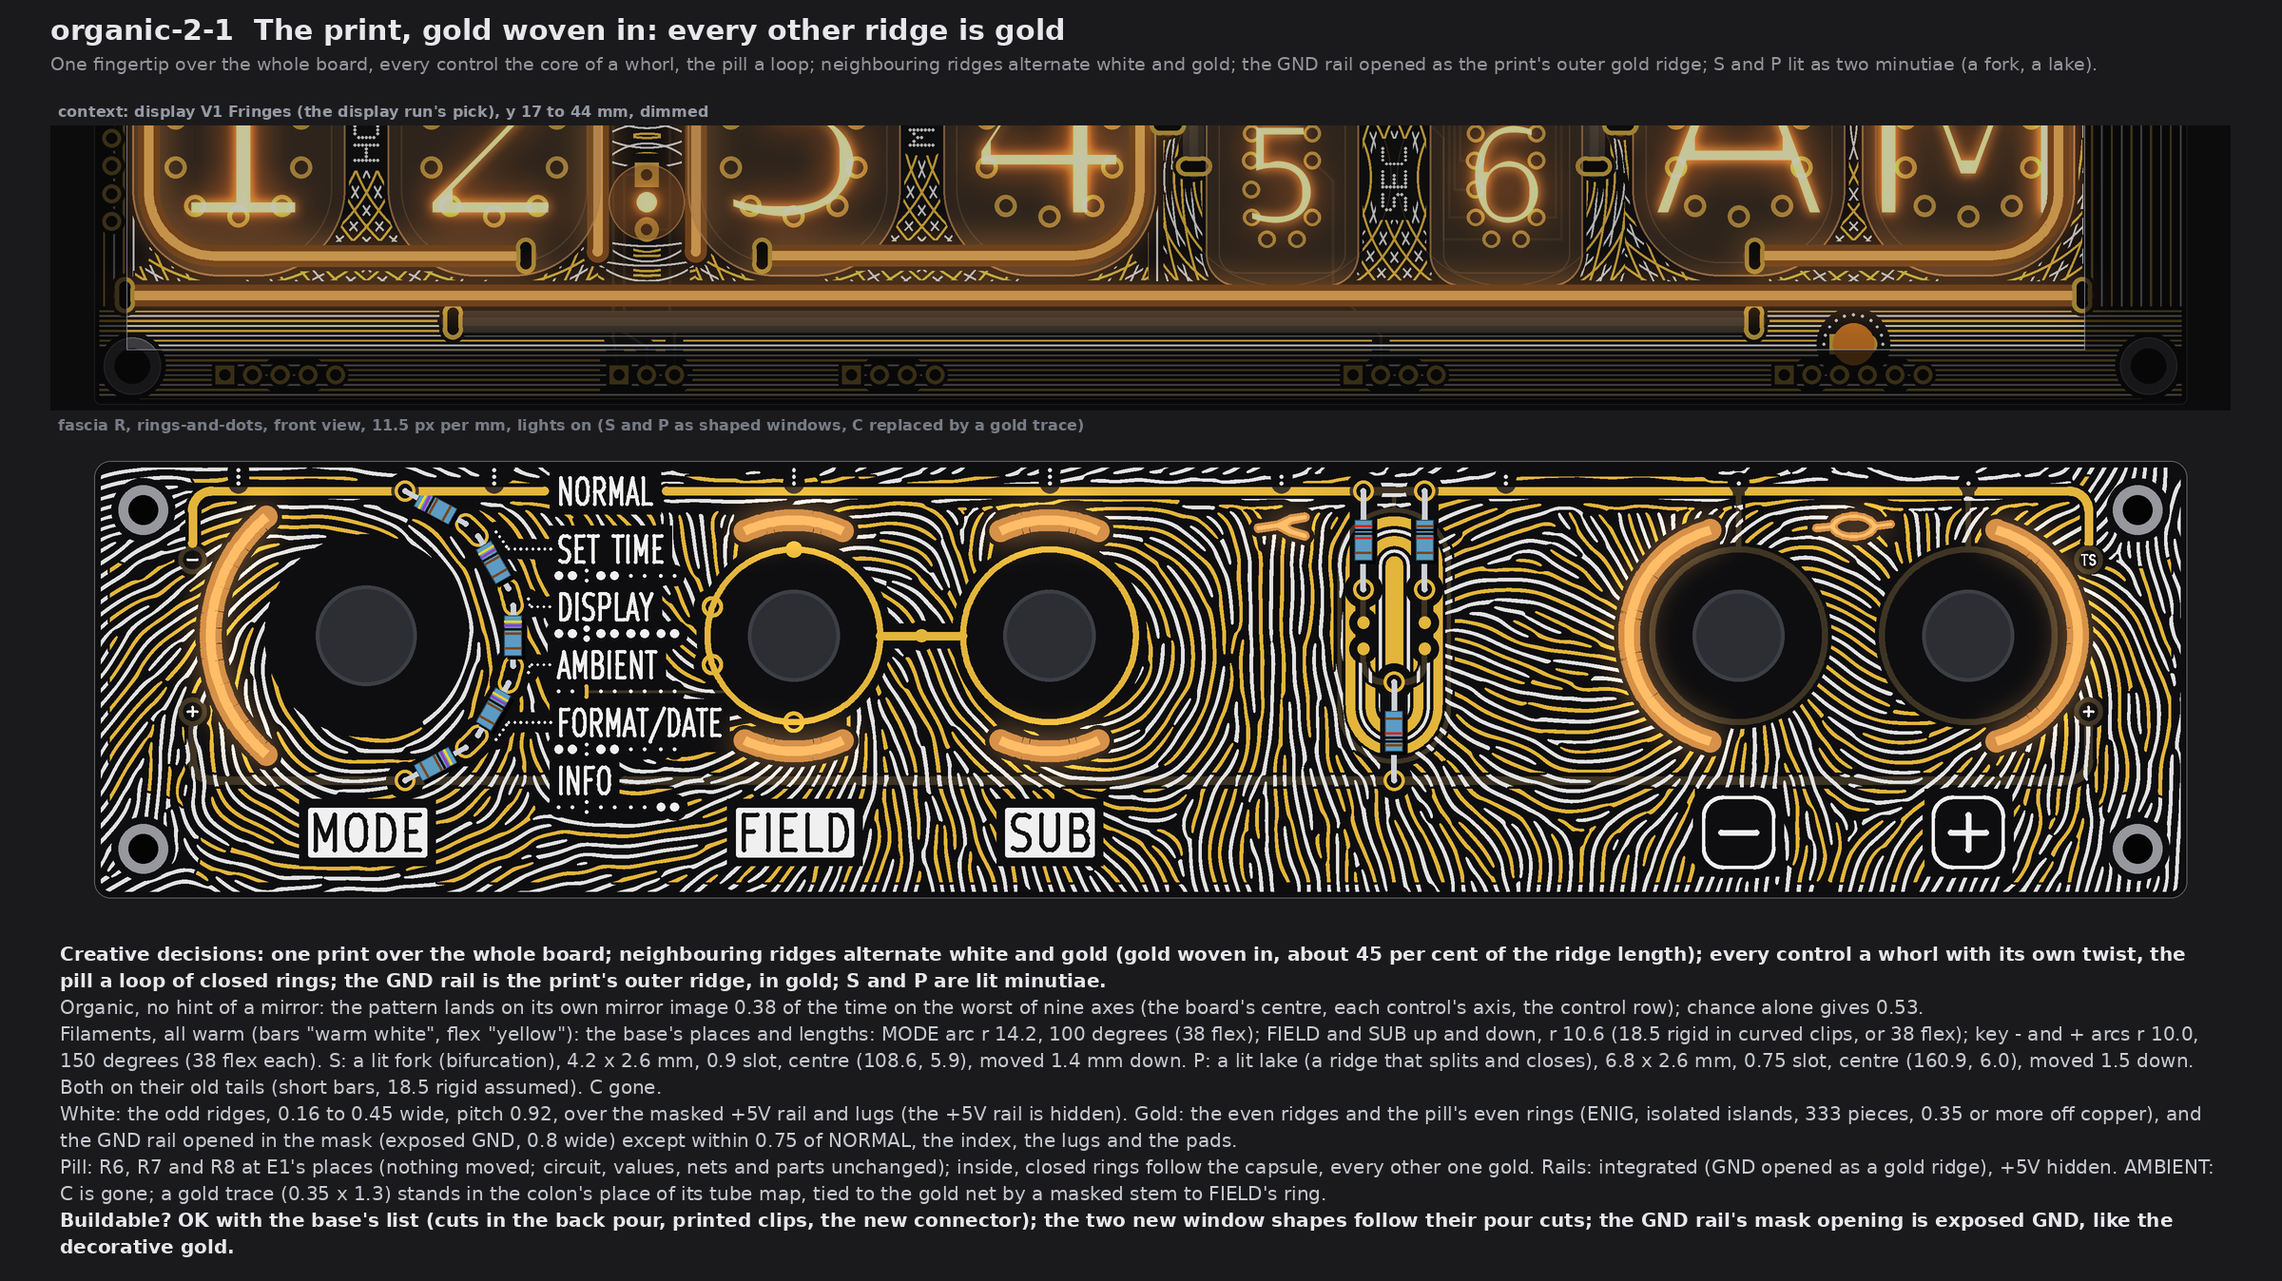
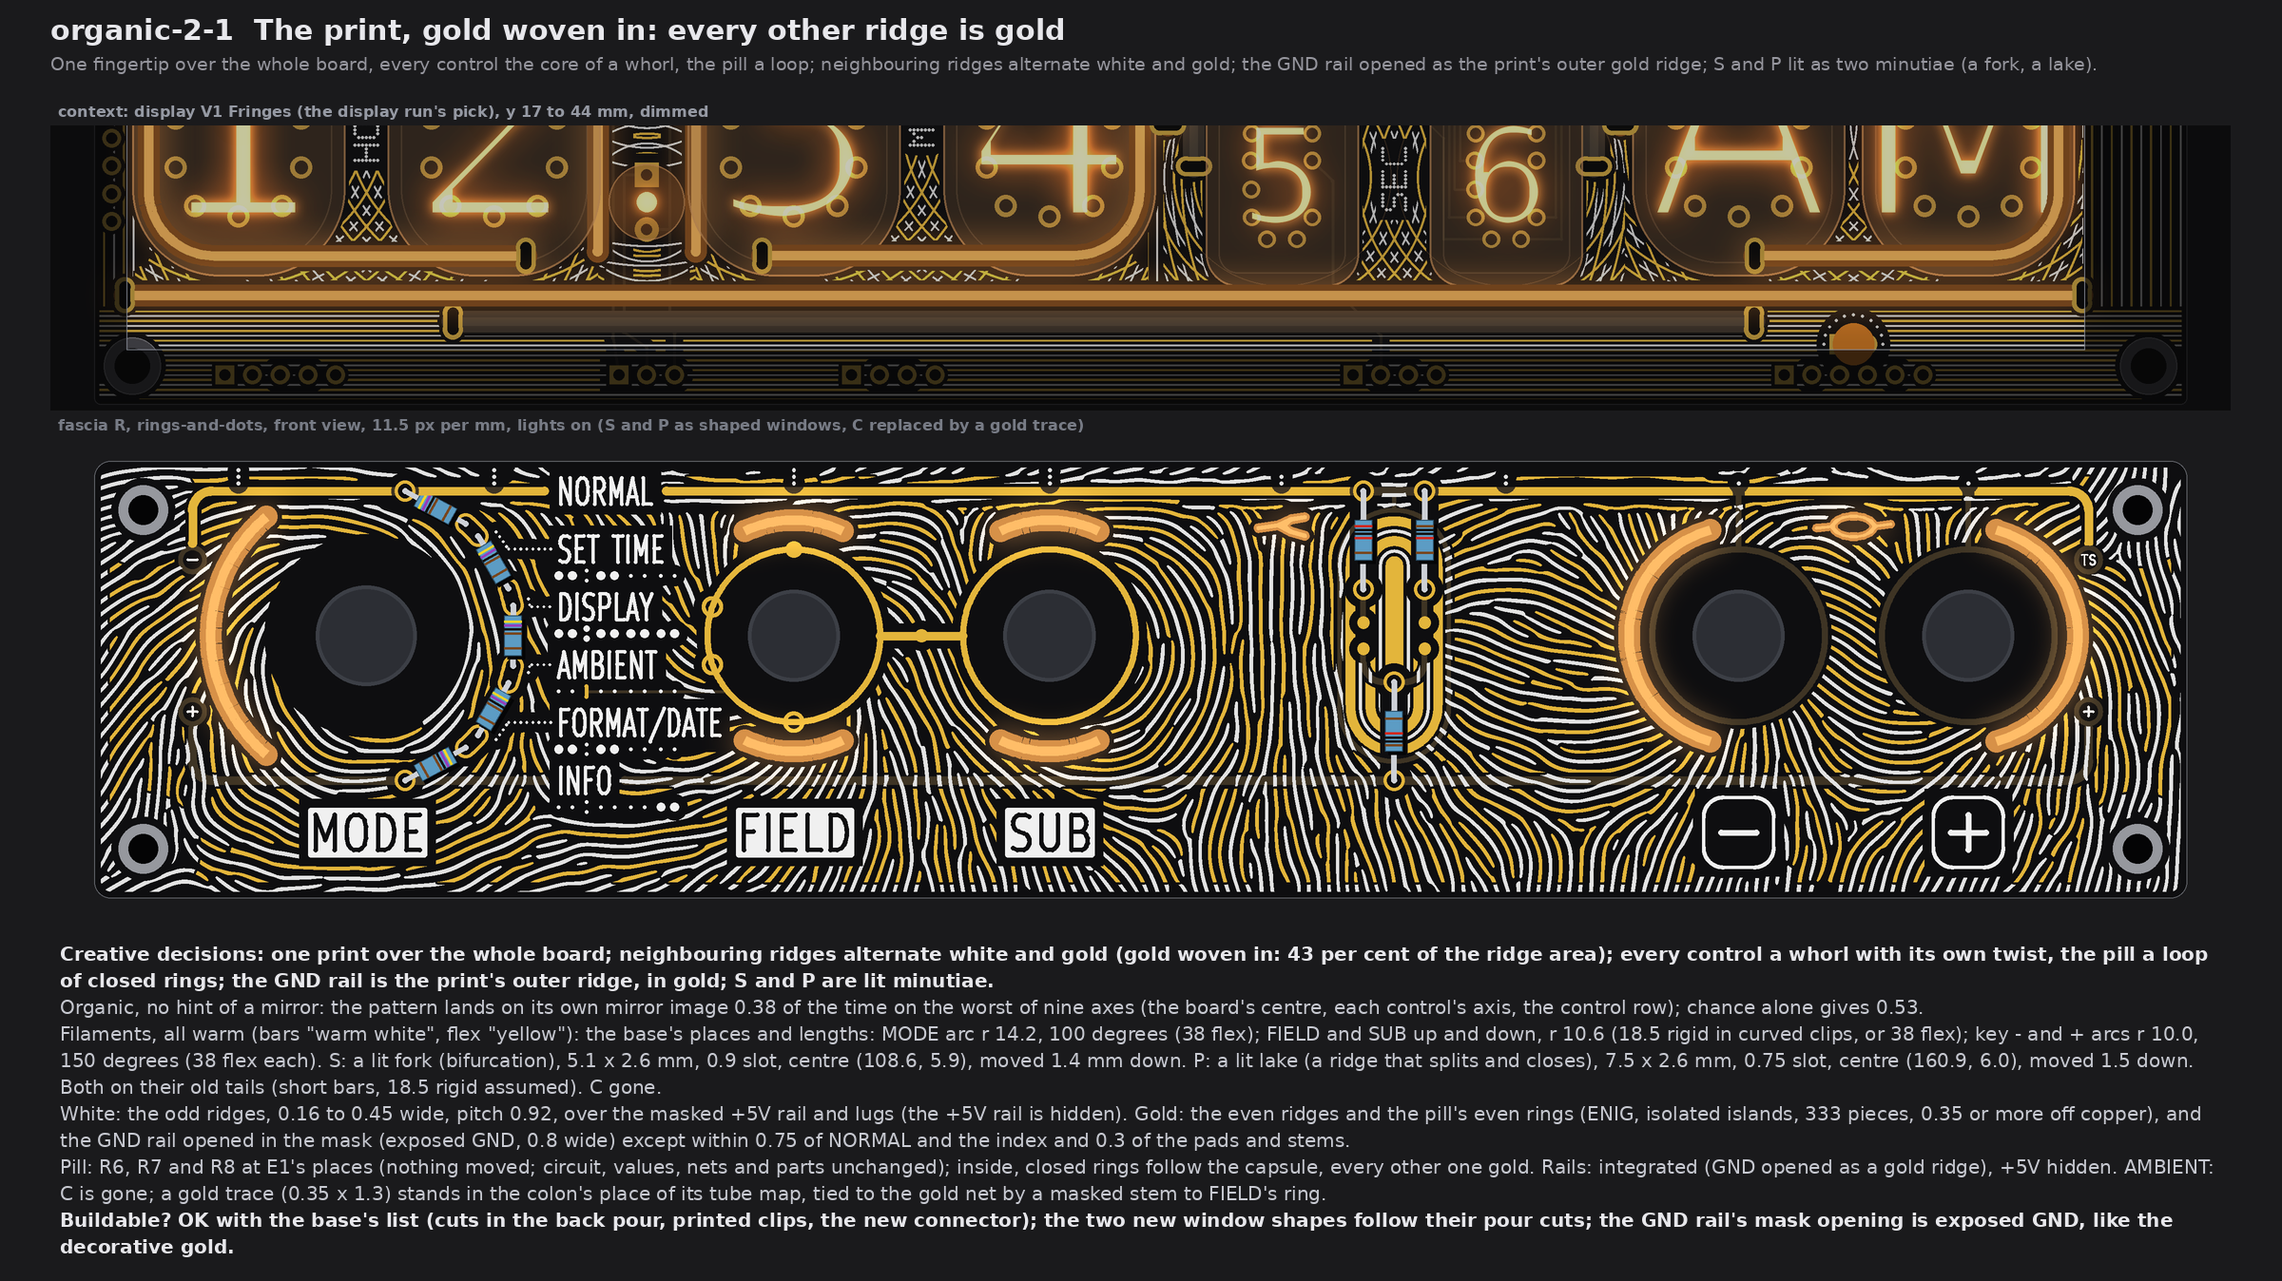
PCB/art: TS06 fascia organic set 2 write-up, sheet, detail, back view; faces after the full-size look (drawings only)
Claude-Session: https://claude.ai/code/session_01WoV3gyAFgmtuk6W6Dr4bdA

Changed region(s): [[0.0312, 0.7478, 0.4688, 0.7789], [0.5625, 0.7166, 0.9688, 0.7478], [0.4062, 0.8724, 0.5938, 0.9036]]

diff --git a/PCB/art/TS06-FASCIA-organic-2.md b/PCB/art/TS06-FASCIA-organic-2.md
@@ -1,0 +1,176 @@
+# TS06 fascia, organic set 2: the print with gold woven in, mushroom, rootwork that carries the function lines (drawings and checks only)
+
+2026-10-14, front round 3, run fascia-organic-2. The owner's words for this set (19:5x UTC): "add the organic set back to the queue
+with these changes: more gold integration in fingerprint, lines can alternate for example , / replace heartwood for mushroom
+variant , make rootwork actually convey info". The first set (`TS06-FASCIA-organic.md`) stays as history. All three faces take the
+queue's changes A1 to A5: the top dots S and P are gone and their lights feed shaped windows; each face says what it does with the
+pill and the rails; display V1 Fringes stands above each face for context; window C by AMBIENT is gone and a gold trace takes its
+place.
+
+No board, schematic, fab, tool, 3D, firmware or spec file was touched. Each face is fascia R as front-merge left it (rings-and-dots:
+FIELD's and SUB's gold rings and link, the four marks on FIELD's ring, the dial's and the ladder's pads, the names, plates, leaders,
+tube maps and index; `PCB/art/TS06-FRONT-merge.md` section 6), at one scale (11.5 px per mm), lights on. Marks: *measured* is on the
+drawn rasters (23 px per mm) or the art model; *inferred* is arithmetic; *assumed* is my reading. The scripts are scratch copies of
+the first organic run's and the kawaii run's, not in the repo.
+
+![contact sheet](TS06-FASCIA-organic-2/contact-sheet.png)
+
+**All three are fully organic and wild** (no hint of a mirror: each lands on its own mirror image less often than chance on the
+worst of nine axes, section 6). They differ by motif (a print, fungi, roots in soil), by lead ink (gold and white in equal turns;
+white-led with gold gills; white soil with gold function roots), by what the lights draw (two lit minutiae; two glowing green
+mushrooms; a seed and a sprout, with the lights coloured to match the roots), and by what they do with the pill and the rails.
+
+## 1. What every face keeps, and the queue's changes
+
+* **Fixed:** outline, holes, controls and their places, J1, the names, plates, key legends, dot leaders, tube maps, the index, FIELD's
+  and SUB's gold rings, the link, the four SUB marks on FIELD's ring, the GND via. Pattern stays 0.78 or more from every legend and
+  0.74 or more from E1's exposed gold (section 6), so each stands on its own calm ground.
+* **A1, S and P:** the two 2.0 mm dots at (108.6, 4.5) and (160.9, 4.5) are gone; their lights and tails stay and light shaped
+  windows (section 5). The tails are *assumed* short bars (18.5 rigid), as the kawaii and science runs took them.
+* **A5, AMBIENT:** window C (45.04, 21.2) and its tail are gone on every face. In its place, in AMBIENT's tube map where the colon's
+  two dots were, a **gold trace** 0.35 wide and 1.3 long (45.04, 20.62 to 21.58), ENIG, 0.46 below AMBIENT's name and 0.97 from the
+  map's dots (*measured* on the model). It stands for the colon, which is what AMBIENT changes (pass 4's tube map). It sits **on the
+  gold net** through a masked copper stem, 0.25 wide, along the map row (y 21.1) to FIELD's ring at (57.96, 21.1), 12.9 mm, under the
+  map's white dots. *Assumed:* that "on the gold net" meant tied, not an isolated island; the stem can be dropped if not.
+* **A4:** display V1 Fringes (`PCB/art/TS06-DISP-final/v1-fringes.png`), y 17 to 44 mm, dimmed, above each face.
+* **Channels on the new fascia connector** (J1 is full; front-merge items 10 and 11), grouping *assumed* as the first organic run's:
+  1 MODE, 2 FIELD up + down, 3 SUB up + down, 4 the two keys, 5 S + P, 6 spare. No face adds a filament or a channel. With C gone
+  the fascia carries 9 filaments; at 20 mA each the 5 V worst case drops 20 mA below front-merge's 624 mA, to 604 mA (*inferred*).
+* **Fab note (once):** bare-FR4 windows still need the fab's yes (pass 1's coupon). Not decided here.
+
+## 2. organic-2-1 The print, gold woven in
+
+![organic-2-1](TS06-FASCIA-organic-2/organic-2-1-the-print.png)
+
+* **Creative decisions:** one fingertip over the whole board; **neighbouring ridges alternate white and gold** (the ridges are
+  labelled and two-coloured so that each ridge's neighbours across a valley take the other ink; 78 per cent of the ridge contact
+  alternates, the rest is where ridges fork, as in a real print); every control the core of a whorl with its own twist; the pill a
+  loop of closed rings; the GND rail is the print's outer ridge, in gold, and the ridges near it run along it; S and P are lit minutiae.
+* **Organic.** Mirror overlap 0.38 on the worst axis, chance 0.53 (*measured*).
+* **Filaments:** all warm (bars "warm white", flex "yellow"), the base's places and lengths: MODE arc (38 flex), FIELD and SUB up
+  and down (18.5 rigid in curved clips, or 38 flex), key arcs (38 flex each). **S: a lit fork** (a ridge that splits), slot 0.9,
+  5.1 x 2.6 mm (x 106.05 to 111.15, y 4.70 to 7.30), centre (108.6, 5.9), 1.4 mm lower than the old dot. **P: a lit lake** (a ridge that splits and closes round an island
+  of mask), slot 0.75, 7.5 x 2.6 mm (x 157.13 to 164.67, y 4.69 to 7.31), centre (160.9, 6.0), 1.5 mm lower. Both on their old tails.
+* **White:** the odd ridges, 0.17 to about 0.45 wide, pitch 0.92, 579 pieces; over the masked +5V rail and lugs.
+* **Gold:** the even ridges and the pill's even rings, ENIG, 333 isolated islands, 43 per cent of the ridge area; plus the opened
+  GND rail.
+* **Pill:** R6, R7 and R8 at E1's places; **nothing moved**, circuit, values, nets and parts unchanged. Inside, closed rings follow
+  the capsule (the print's loop core), every other one gold, clear of the pads, the landing dots and the bodies.
+* **Rails: integrated.** The GND rail (0.8 wide) is opened in the mask along its length as the print's outer gold ridge (exposed
+  GND, like decorative gold on GND), broken within 0.75 of NORMAL and the index and within 0.3 of the pads and the stems that hang from it; the +5V rail stays masked
+  and hidden under the white ridges (no bare 5 V on the face, as pass 4 chose).
+* **Buildable? OK** with the base's list (cuts in the back pour, printed clips, the new connector); the two new window shapes want
+  their own pour cuts; the GND rail's mask opening is one more mask edit.
+
+## 3. organic-2-2 Mushroom (replaces Heartwood)
+
+![organic-2-2](TS06-FASCIA-organic-2/organic-2-2-mushroom.png)
+
+* **Creative decisions:** every control is a mushroom **cap seen from below**: gills radiate from the knob to a wavy rim, the
+  levers' gold rings are the caps' rings; full gills gold, half and quarter gills white and shorter, as real gills sit (the radial
+  print a cap leaves is its **spore print**); white **mycelium** threads grow from the caps' rims and the little mushrooms' feet over
+  the rest of the board and fuse where they meet (389 fusions); 14 little gold-capped **mushrooms** stand along the bottom edge
+  between the plates; the pill is a mushroom in section; S and P are glowing mushrooms.
+* **Organic.** Mirror overlap 0.33, chance 0.38 (*measured*).
+* **Filaments:** the base's places and lengths, warm, except **S and P, green** (flex or bars "green", on the sold list; a glowing
+  mushroom). S: one mushroom silhouette 3.7 x 3.6 mm, x 106.75 to 110.43, y 4.35 to 7.97 (cap 3.7 wide on a stem), centred 1.7 mm
+  lower than the old dot. P: two mushrooms, caps 3.1 and 2.0 wide, x 158.37 to 163.57, y 4.90 to 8.17. Both on their old tails.
+* **White:** the half and quarter gills (0.16 to 0.18), each cap's rim, the mycelium (0.15 to 0.26, thickest where most threads
+  join), the stems and gills of the little mushrooms, the pill's gills and stem fibres, the rail lines; 298 pieces.
+* **Gold:** the full gills (0.26), the little mushrooms' caps, the pill's cap edge; 190 isolated islands.
+* **Pill: rearranged.** R7 (20k) and R8 (10k) **lean in 19 degrees** as the cap's outer gills: their top pads slide out along the
+  GND rail to (114.51, 2.77) and (123.27, 2.77) (were x 116.09 and 121.69), their bottom pads come in to (117.44, 11.28) and
+  (120.34, 11.28) (were (116.09, 11.77) and (121.69, 11.77)). Same parts, values, nets and 9.0 mm pitch; R6 does not move. *Measured*
+  on the model: the bottom pads 1.00 apart edge to edge, every moved pad 1.55 or more from the capsule's copper, the top pads still on
+  the GND rail. Inside the capsule: a gold cap edge (r 4.25), white gills fanning up from the stem's top, a ring and stem fibres.
+* **Rails: shown, white.** A 0.3 white line on each masked rail, its corners and its stubs to the lugs, broken at NORMAL, INFO and
+  the pads; the mycelium keeps 0.3 off it. It reads as the bed the mushrooms grow in.
+* **Buildable? Needs X:** the base's list, plus the pill's new pad places for R7 and R8 on the fascia. The ordered board
+  (`R-open.kicad_pcb`) still has R6 to R8 elsewhere as 1206 parts on the back (the kawaii run noted the same); the board-change run
+  places them and re-routes A7's two pads to J1 (nets unchanged, room *assumed*). Green is a filament part swap.
+
+## 4. organic-2-3 Rootwork that carries the function lines
+
+![organic-2-3](TS06-FASCIA-organic-2/organic-2-3-rootwork.png)
+
+* **Creative decisions:** the roots are the face's information; everything else is soil. **Each control's roots reach exactly what
+  it serves, and nothing else does** (soil keeps 1.2 to 1.5 mm off every name and 0.75 off every root):
+
+  | Control | Roots (ink, width) | Reach | True because (source) |
+  |---|---|---|---|
+  | FIELD | gold, 0.56 tapering to 0.36, from FIELD's ring at its marks | SET TIME, DISPLAY, AMBIENT, FORMAT/DATE | FIELD is read on screens 2 to 5, not on 1 and 6 (spec Rev D.4 section 1, the control table, `knowledge/TERMINAL-06-spec.txt`) |
+  | SUB | gold, 0.28, a thin twin beside FIELD's root, leaving the three circle marks | DISPLAY, AMBIENT, FORMAT/DATE | SUB is read only when FIELD is thrown (spec section 1, the SUB rule), so SUB's roots come through the link and FIELD's ring: the rule drawn as a graft. AMBIENT's SUB use is control option 2 (`TS06-FRONT-merge.md` section 5) and its open circle mark (section 6); the spec's table predates it and says "not read" there |
+  | MODE | white, 0.46 tapering to 0.28, six short radial roots | its six taps at 30 degree steps; the leaders carry each tap on to its name | the rotary picks the screen, six positions 30.00 degrees apart (spec section 1 and the control scheme rev B, "Step angle closed") |
+  | - and + | white, beaded (nodules every 2.2 mm), 0.36 to 0.50, one taproot along the +5V rail's lower edge | FIELD and SUB (a branch up into each ring) | "Buttons are always - / + on whatever the levers point at" (spec section 1) |
+  | NORMAL, INFO | no root | | every input is ignored on both parking screens (spec section 1) |
+
+  Thickness codes the control (thick gold FIELD, thin gold SUB, white MODE, beaded white keys), and the lights match: the gold-rooted
+  levers lit warm, the white-rooted MODE arc and key arcs lit white. The soil: white strata that flow round the controls, the pill
+  and 70 pebbles (a stream function), broken here and there; gold-rimmed pebbles; white grains; agate rings in the pill.
+* **Organic.** Mirror overlap 0.28, chance 0.35 (*measured*).
+* **Filaments:** the base's places and lengths. Colours: FIELD and SUB arcs warm; **MODE arc and both key arcs white** (flex
+  "white", sold); S and P warm. **S: a seed** (a lens 3.9 x 1.7, tilted 22 degrees) at (108.6, 6.0), 1.5 mm lower than the old dot;
+  **P: a sprout's two seed leaves** (lenses 3.0 x 1.35, at plus and minus 42 degrees) at (160.9, 6.2), 1.7 mm lower. Both on their old tails.
+* **White:** the strata (0.17), grains, the pill's agate rings, MODE's and the keys' roots; 883 pieces.
+* **Gold:** the seven function roots (on the gold net's side: they come to 0.31 of FIELD's ring and marks, *measured*; tie them on by
+  closing the gap if the fab wants them on the net) and the pebbles' rims; 58 pattern islands.
+* **Pill:** R6, R7 and R8 at E1's places, **nothing moved**, circuit unchanged; the capsule is the biggest stone in the soil, filled
+  with agate rings; the keys' taproot dips under R6's +5V pad (to y 31.4) on its way.
+* **Rails: hidden** (masked, as in E1); the soil runs over them.
+* **Buildable? OK** with the base's list; white for MODE and the keys is a filament part swap (same lengths, same clips).
+
+## 5. The light base and what each face changes
+
+![The fascia's back: base and changes](TS06-FASCIA-organic-2/lights-back.png)
+
+| Face | Change against the base | Filament (sold list), form | Colours shipped | Channel | Cost on the back |
+|---|---|---|---|---|---|
+| all | C and its tail dropped (A5) | | | 5 loses C | one pour cut less |
+| organic-2-1 | S: lit fork 5.1 x 2.6 at (108.6, 5.9), 1.4 lower; P: lit lake 7.5 x 2.6 at (160.9, 6.0), 1.5 lower | the old tails (18.5 rigid, *assumed*) | all warm | 5 | the pour cuts follow the shapes |
+| organic-2-2 | S: one mushroom 3.7 x 3.6, 1.7 lower; P: two mushrooms 5.2 x 3.3 | the old tails | warm; **S and P green** | 5 | the pour cuts follow the shapes; R7 and R8 move (section 3) |
+| organic-2-3 | S: a seed 3.6 x 1.9 overall at (108.6, 6.0), 1.5 lower; P: two seed leaves 4.1 x 2.0 overall at (160.9, 6.2), 1.7 lower | the old tails | warm; **MODE arc and key arcs white** | 5; 1 and 4 white | the pour cuts follow the shapes |
+
+All windows keep 0.68 or more from copper and 1.17 or more from a legend (*measured*). No face needs a sixth channel.
+
+## 6. The checks (*measured* on the 23 px per mm rasters)
+
+| Check | Rule | 2-1 print | 2-2 mushroom | 2-3 rootwork |
+|---|---|---|---|---|
+| White, gold to a name, plate, key legend, tube map, leader or index | 0.75 | 0.78, 0.79 | 0.78, 0.80 | 0.78, 0.80 |
+| White, gold to E1's exposed gold (rings, link, marks, pads) | 0.30 (0.75 frame drawn) | 0.74, 0.74 | 0.74, 0.75 | 0.68, 0.77 (roots 0.31, on purpose) |
+| Pattern gold to any other copper | 0.30 | 0.34 | 0.35 | 0.37 |
+| White, gold to a lit window | 0.35 | 0.36, 0.36 | 0.36, 0.37 | 0.39, 0.40 |
+| White to gold | 0.15 | 0.22 | 0.22 | 0.22 |
+| Gold to the board edge | 1.4 (pass 4's checker) | 1.48 | 1.61 | 1.48 |
+| Gold to a screw head (r 2.25) | 3.0 | 3.05 (keep-out) | same | same |
+| Thinnest white / gold piece | 0.15 silk | 0.17 / 0.26 | 0.17 / 0.25 | 0.17 / 0.27 |
+| Lit window to copper, to a legend | 0.30 | 0.68, 1.17 | 0.68, 1.17 | 0.68, 1.17 |
+| Free board within 1.2 mm of some ink | no empty space | 99.7 % | 98.1 % | 99.4 % |
+| Mirror overlap, worst axis / chance | below chance | 0.38 / 0.53 | 0.33 / 0.38 | 0.28 / 0.35 |
+
+White runs over masked copper (rails, lugs, the key rings, the stems) by design, as on every face before. The pattern's gold is
+isolated islands (no net) except the print's opened GND rail; stems to GND can be added if the fab wants no floating copper.
+
+## 7. Detail and my pick
+
+![detail, 2x](TS06-FASCIA-organic-2/detail-2x.png)
+
+The print at 23 px per mm, x 38 to 128: the names on their calm ground, AMBIENT's gold trace in its map, FIELD's and SUB's whorls
+with the ridges alternating gold and white, the opened GND rail, the lit fork (S) and the pill's ring loop.
+
+**My pick: 2-1, the print.** It is the owner's own change made literal: every other ridge is gold, so gold runs through the whole
+board instead of sitting round the levers, the print covers 99.7 per cent of the free board, and it needs nothing beyond the light
+base. Rootwork is the runner-up where the face should explain itself: it is the only one whose art is the function lines.
+
+## 8. Left open, assumed
+
+* The connector's channel grouping is *assumed* (front-merge left it open); the info tails are *assumed* short bars.
+* AMBIENT's gold trace is tied to the gold net by a masked stem (*assumed* wanted); the stem's 12.9 mm under the mask is not on any
+  earlier drawing.
+* Rootwork follows control option 2 (SUB on AMBIENT) from front-merge and the owner's standing marks; the spec's control table still
+  says "not read" for SUB on AMBIENT, and the firmware does not implement the control scheme yet (spec section 5). If option 2 is
+  dropped, AMBIENT's SUB root and its circle mark go together.
+* Mushroom's R7 and R8 places are drawn on the art model (E1). The back's room for their routes and for the S and P tails beside the
+  pill is not checked; the board-change run places them.
+* The green and white filaments' glow through 1.6 mm FR4 next to warm windows is not tried; the bench decides.
+* Not checked: KiCad DRC (no board file edited). Ridge pitch, gill counts, strata pitch, pebble sizes and the seeds are choices.
